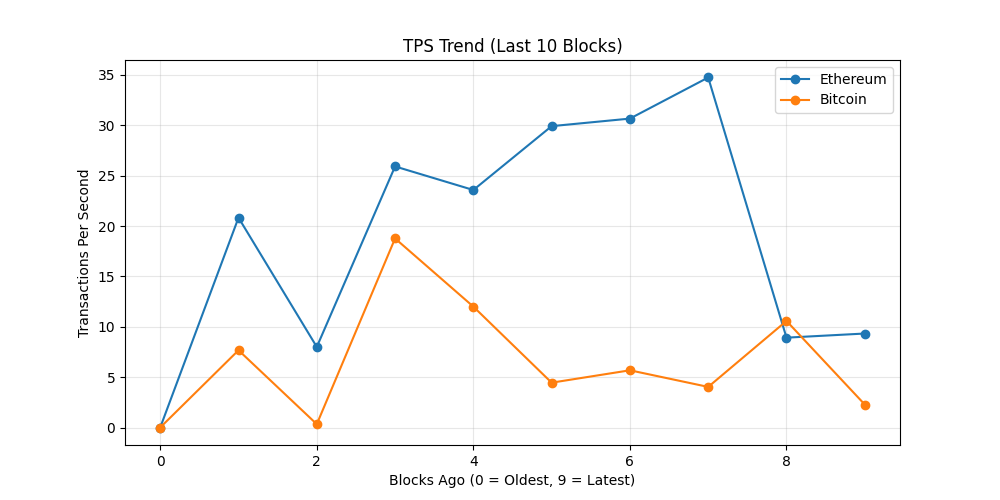
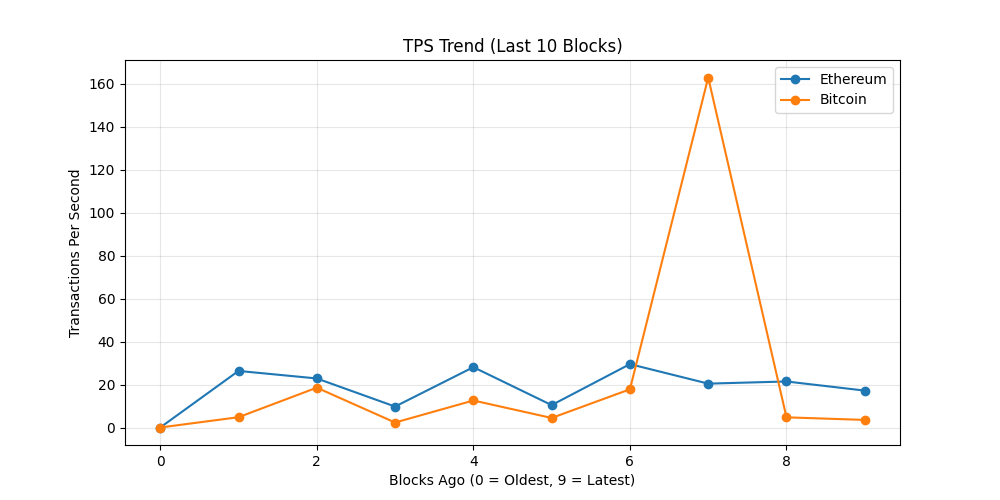
chore: update on-chain dashboard

diff --git a/README.md b/README.md
@@ -19,7 +19,7 @@ The README itself acts as the dashboard and is regenerated automatically on a 6 
 demonstrating a production-style, infrastructure-focused observability workflow rather
 than a traditional UI-driven approach.
 
-_Last updated: 2026-08-25 13:09 UTC_
+_Last updated: 2026-08-25 18:55 UTC_
 
 ## API Usage (GetBlock.io)
 - Calls used: **24**
@@ -27,8 +27,8 @@ _Last updated: 2026-08-25 13:09 UTC_
 ## Network Metrics
 | Chain | Block Height | TX Count | TPS (10 blk avg) | Block Util | Avg Fee |
 |------|-------------|----------|------------------|------------|---------|
-| Ethereum | 25832419 | 112 | 9.33 | 11.0% | 0.1 Gwei |
-| Bitcoin | 964003 | 4253 | 2.28 | 99.8% | N/A |
+| Ethereum | 25834137 | 206 | 17.17 | 24.46% | 0.1 Gwei |
+| Bitcoin | 964040 | 4018 | 3.53 | 99.8% | N/A |
 
 ## Visuals
 ### Transactions Trend
@@ -43,11 +43,11 @@ _Last updated: 2026-08-25 13:09 UTC_
 ## Whale Alerts (latest block)
 - Transaction hashes are truncated for readability.
 - Full hashes are available in `dashboards/metrics.json`
-- Bitcoin | 174.62 BTC | `b6e1f4b8d3ba…`
-- Bitcoin | 130.0 BTC | `55a51a6b8044…`
-- Bitcoin | 607.03 BTC | `b1b3b71fca8a…`
-- Bitcoin | 186.16 BTC | `2a37fc721667…`
-- Bitcoin | 113.09 BTC | `b9a50bd8e846…`
+- Bitcoin | 252.25 BTC | `f7c8a2a4006f…`
+- Bitcoin | 210.0 BTC | `915a4d2ec947…`
+- Bitcoin | 288.76 BTC | `59d8901acb53…`
+- Bitcoin | 199.91 BTC | `226be61ef239…`
+- Bitcoin | 892.07 BTC | `d62a3045ef79…`
 
 ## Run locally
 
